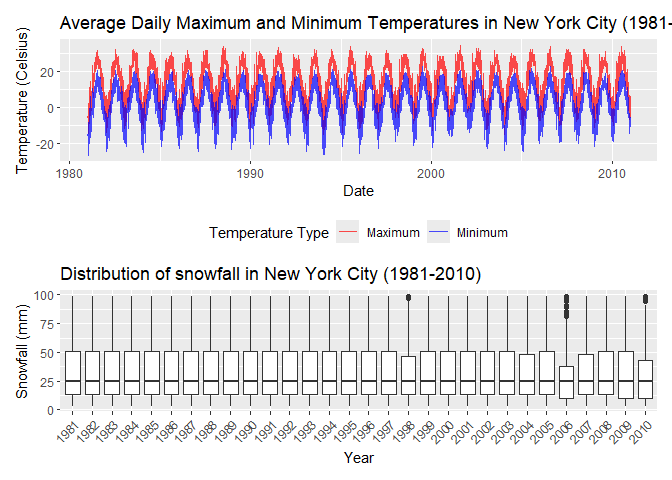
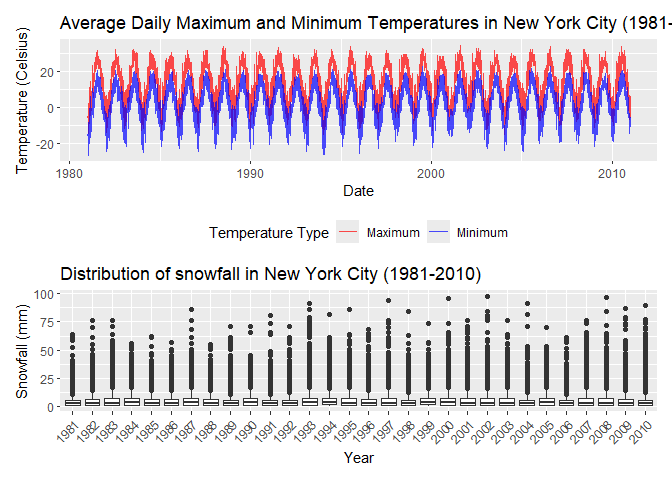
Problem 1: Add notes on data cleaning, change var units
Change two-panel plot type for snowfall

diff --git a/p8105_hw3_ns3782.md b/p8105_hw3_ns3782.md
@@ -63,8 +63,11 @@ ny_noaa_clean <- ny_noaa %>%
     year = lubridate::year(date),
     month = lubridate::month(date),
     day = lubridate::day(date),
-    tmax = as.numeric(tmax) / 10,
-    tmin = as.numeric(tmin) / 10
+    prcp = prcp / 10, 
+    snow = snow / 10, 
+    snwd = snwd / 10,  
+    tmax = as.numeric(tmax) / 10, 
+    tmin = as.numeric(tmin) / 10   
   )
 
 
@@ -77,20 +80,31 @@ ny_noaa_clean %>%
 
     ## # A tibble: 5 × 2
     ##    snow       n
-    ##   <int>   <int>
-    ## 1     0 2008508
-    ## 2    NA  381221
-    ## 3    25   31022
-    ## 4    13   23095
-    ## 5    51   18274
+    ##   <dbl>   <int>
+    ## 1   0   2008508
+    ## 2  NA    381221
+    ## 3   2.5   31022
+    ## 4   1.3   23095
+    ## 5   5.1   18274
+
+## Notes regarding data cleaning
+
+In the process of cleaning the NOAA weather data, I undertook several
+unit conversions to improve interpretability of the weather data.
+Precipitation was changed from tenths of mm to mm, while snowfall and
+snow depth were converted from mm to cm. These are in line with typical
+measures used for these data. Maximum and minimum temperatures were also
+adjusted from tenths of degrees Celsius to whole degrees Celsius. These
+conversions were made to standardise units across the weather variables
+and enable easier subsequent analysis.
 
 ## Most Common Snowfall values
 
-The most common snowfall values for NYC are 0 mm (2008508 occurrences),
+The most common snowfall values for NYC are 0 cm (2008508 occurrences),
 followed by NA (381221 occurrences). 0 is the most common, likely due to
 New York City rarely having snow year round particularly in recent
 years, while NA represents missing data. The next most common values are
-25, 13, 51 mm, which are 1 inch, 0.5 inch, and 2 inches respectively.
+2.5, 1.3, 5.1 cm, which are 1 inch, 0.5 inch, and 2 inches respectively.
 These are indicative of typical light to moderate snowfall events, which
 would be expected of New York City during colder months.
 
@@ -184,8 +198,6 @@ print(p1_nyc_noaa_plot / p2_nyc_noaa_plot)
 # Problem 2
 
 ``` r
-## Import and clean datasets
-
 # Import and clean nhanes_covar csv
 
 nhanes_covar <- read_csv("./data/nhanes_covar.csv", skip = 4) %>% 
@@ -214,3 +226,139 @@ nhanes_accel <- read_csv("./data/nhanes_accel.csv") %>%
     ## 
     ## ℹ Use `spec()` to retrieve the full column specification for this data.
     ## ℹ Specify the column types or set `show_col_types = FALSE` to quiet this message.
+
+``` r
+# Merge datasets
+
+nhanes_merged <- nhanes_covar %>%
+  left_join(nhanes_accel, by = "seqn")
+
+# Exclude participants less than 21 years of age and missing demographic data
+
+nhanes_cleaned <- nhanes_merged %>%
+  filter(age >= 21) %>%
+  drop_na(sex, age, bmi, education)
+
+# Check variable types
+
+str(nhanes_cleaned)
+```
+
+    ## tibble [228 × 1,445] (S3: tbl_df/tbl/data.frame)
+    ##  $ seqn     : num [1:228] 62161 62164 62169 62174 62177 ...
+    ##  $ sex      : num [1:228] 1 2 1 1 1 1 1 1 2 1 ...
+    ##  $ age      : num [1:228] 22 44 21 80 51 80 35 26 30 57 ...
+    ##  $ bmi      : num [1:228] 23.3 23.2 20.1 33.9 20.1 28.5 27.9 22.1 22.4 28 ...
+    ##  $ education: num [1:228] 2 3 2 3 2 2 3 2 3 3 ...
+    ##  $ min1     : num [1:228] 1.11 1.92 5.85 5.42 6.14 ...
+    ##  $ min2     : num [1:228] 3.12 1.67 5.18 3.48 8.06 ...
+    ##  $ min3     : num [1:228] 1.47 2.38 4.76 3.72 9.99 ...
+    ##  $ min4     : num [1:228] 0.938 0.935 6.482 3.808 6.598 ...
+    ##  $ min5     : num [1:228] 1.6 2.59 6.85 6.85 4.57 ...
+    ##  $ min6     : num [1:228] 0.145 5.221 7.242 4.449 2.783 ...
+    ##  $ min7     : num [1:228] 2.1 2.393 6.115 0.561 7.104 ...
+    ##  $ min8     : num [1:228] 0.509 4.902 7.484 1.608 7.253 ...
+    ##  $ min9     : num [1:228] 1.632 1.968 5.471 0.698 10.127 ...
+    ##  $ min10    : num [1:228] 1.2 3.13 6.49 2.72 7.49 ...
+    ##  $ min11    : num [1:228] 0.947 2.771 5.135 4.845 2.718 ...
+    ##  $ min12    : num [1:228] 0.0263 2.4539 3.5134 0.5777 2.3941 ...
+    ##  $ min13    : num [1:228] 0.0552 2.1964 5.4329 1.174 2.2013 ...
+    ##  $ min14    : num [1:228] 0.037 3.079 3.836 2.801 0.85 ...
+    ##  $ min15    : num [1:228] 2.1 7.72 10.22 1.06 3.3 ...
+    ##  $ min16    : num [1:228] 0.543 9.464 6.942 0.029 2.918 ...
+    ##  $ min17    : num [1:228] 0.0915 6.8507 5.9619 0.9488 3.6746 ...
+    ##  $ min18    : num [1:228] 0.97 5.5 8.16 2.68 7.59 ...
+    ##  $ min19    : num [1:228] 0.814 6.11 14.2 4.881 6.248 ...
+    ##  $ min20    : num [1:228] 0.965 3.443 8.693 0.127 5.79 ...
+    ##  $ min21    : num [1:228] 0.0478 3.5679 25.992 2.5968 3.3457 ...
+    ##  $ min22    : num [1:228] 1.86 1.47 9.24 5.02 3.32 ...
+    ##  $ min23    : num [1:228] 1.08 3.1 6.63 1.65 3.01 ...
+    ##  $ min24    : num [1:228] 1.03 1.77 5.1 5.26 4.18 ...
+    ##  $ min25    : num [1:228] 1.23 3.28 4.78 4.72 2.24 ...
+    ##  $ min26    : num [1:228] 2.29 4.53 8.48 5.02 3.79 ...
+    ##  $ min27    : num [1:228] 0.0607 2.5034 7.4079 4.7187 5.7221 ...
+    ##  $ min28    : num [1:228] 0.0533 1.3331 4.4674 6.8562 5.5306 ...
+    ##  $ min29    : num [1:228] 0.103 0.765 5.384 2.806 12.468 ...
+    ##  $ min30    : num [1:228] 0.0907 5.9849 3.7921 4.3602 5.6324 ...
+    ##  $ min31    : num [1:228] 0.309 3.25 5.987 3.357 1.305 ...
+    ##  $ min32    : num [1:228] 0.4 0.745 4.218 1.742 2.748 ...
+    ##  $ min33    : num [1:228] 1.234 0.99 3.491 1.998 0.395 ...
+    ##  $ min34    : num [1:228] 0.033 1.342 3.624 0.98 1.554 ...
+    ##  $ min35    : num [1:228] 3.0613 3.5911 5.953 0.0155 0.6207 ...
+    ##  $ min36    : num [1:228] 1.723 5.063 7.598 0.457 0.247 ...
+    ##  $ min37    : num [1:228] 0.0605 4.642 7.6967 0.6662 1.5099 ...
+    ##  $ min38    : num [1:228] 4.22 5.02 6.34 1.05 1.69 ...
+    ##  $ min39    : num [1:228] 0.805 2.664 20.129 0.02 3.07 ...
+    ##  $ min40    : num [1:228] 0.898 1.363 10.044 0.507 4.033 ...
+    ##  $ min41    : num [1:228] 1.7445 2.4273 4.4081 0.0427 2.1993 ...
+    ##  $ min42    : num [1:228] 1.506 5.165 8.664 0.756 0.69 ...
+    ##  $ min43    : num [1:228] 0.857 6.527 10.432 1.763 1.255 ...
+    ##  $ min44    : num [1:228] 1.03 3.22 6.75 3.29 3.02 ...
+    ##  $ min45    : num [1:228] 0.0495 6.4894 3.8894 0.0893 2.7264 ...
+    ##  $ min46    : num [1:228] 0.137 6.602 3.976 0.732 7.687 ...
+    ##  $ min47    : num [1:228] 0.911 2.535 3.47 1.363 1.78 ...
+    ##  $ min48    : num [1:228] 0.299 3.532 5.168 0.117 1.399 ...
+    ##  $ min49    : num [1:228] 0.364 2.365 5.692 0.759 1.329 ...
+    ##  $ min50    : num [1:228] 0.0455 1.0396 5.194 0.5965 3.2546 ...
+    ##  $ min51    : num [1:228] 0.0307 0.805 3.5296 0.419 2.827 ...
+    ##  $ min52    : num [1:228] 2.216 0.722 6.174 0.147 2.251 ...
+    ##  $ min53    : num [1:228] 0.0577 1.1586 7.8921 1.7413 0.3917 ...
+    ##  $ min54    : num [1:228] 1.216 1.243 7.589 2.286 0.631 ...
+    ##  $ min55    : num [1:228] 0.0765 1.2767 6.3474 4.3313 0.7009 ...
+    ##  $ min56    : num [1:228] 0.0638 1.2551 5.1994 0.1208 1 ...
+    ##  $ min57    : num [1:228] 0.532 0.6137 5.814 0.0183 2.2229 ...
+    ##  $ min58    : num [1:228] 0.0448 0.7019 8.0919 0.698 3.5767 ...
+    ##  $ min59    : num [1:228] 0.094 4.954 6.623 0.084 2.911 ...
+    ##  $ min60    : num [1:228] 0.0273 4.0599 5.9017 0.5968 5.567 ...
+    ##  $ min61    : num [1:228] 0.922 9.251 6.438 0.015 2.355 ...
+    ##  $ min62    : num [1:228] 0.0378 2.8973 6.4271 0.0157 4.0069 ...
+    ##  $ min63    : num [1:228] 0.15 1.871 5.103 0.183 3.47 ...
+    ##  $ min64    : num [1:228] 0.0922 1.1697 5.1356 0.7497 2.7854 ...
+    ##  $ min65    : num [1:228] 0.378 2.625 4.541 0.031 5.24 ...
+    ##  $ min66    : num [1:228] 0.0377 2.476 5.7209 0.0307 4.8513 ...
+    ##  $ min67    : num [1:228] 1.1283 2.3359 4.7034 0.0422 3.4093 ...
+    ##  $ min68    : num [1:228] 0.123 4.983 6.667 0.873 4.443 ...
+    ##  $ min69    : num [1:228] 1.21 3.26 5.61 5.84 7.37 ...
+    ##  $ min70    : num [1:228] 0.0503 4.6211 3.496 6.2575 2.9409 ...
+    ##  $ min71    : num [1:228] 0.0243 3.8281 3.5521 4.0658 3.1709 ...
+    ##  $ min72    : num [1:228] 0.0543 2.0437 6.0114 4.9895 3.302 ...
+    ##  $ min73    : num [1:228] 0.0273 1.0824 4.949 0.4662 10.2747 ...
+    ##  $ min74    : num [1:228] 0.68 6.02 5.52 1.11 1.14 ...
+    ##  $ min75    : num [1:228] 0.0512 5.1124 5.4481 6.5372 2.0353 ...
+    ##  $ min76    : num [1:228] 0.747 7.646 6.168 5.703 2.457 ...
+    ##  $ min77    : num [1:228] 0.743 6.181 5.776 0.41 1.793 ...
+    ##  $ min78    : num [1:228] 1.26 4.77 10.52 1.04 3.82 ...
+    ##  $ min79    : num [1:228] 0.854 4.373 7.089 0.359 3.331 ...
+    ##  $ min80    : num [1:228] 1.166 4.56 7.959 0.931 4.177 ...
+    ##  $ min81    : num [1:228] 0.206 1.921 7.116 0.237 5.08 ...
+    ##  $ min82    : num [1:228] 0.824 2.648 4.855 1.529 2.02 ...
+    ##  $ min83    : num [1:228] 0.115 2.168 7.518 5.599 5.898 ...
+    ##  $ min84    : num [1:228] 1.06 1.32 9.21 3.2 3.3 ...
+    ##  $ min85    : num [1:228] 3.76 2.75 5.03 3.3 1.23 ...
+    ##  $ min86    : num [1:228] 6.86 1.85 4.4 2.96 6.24 ...
+    ##  $ min87    : num [1:228] 5.949 1.477 9.568 0.033 0.89 ...
+    ##  $ min88    : num [1:228] 1.593 0.715 9.112 0.394 0.815 ...
+    ##  $ min89    : num [1:228] 0.353 1.552 9.95 1.137 0.102 ...
+    ##  $ min90    : num [1:228] 0.768 1.583 9.702 0.212 1.515 ...
+    ##  $ min91    : num [1:228] 0.275 1.4 4.508 0.527 4.04 ...
+    ##  $ min92    : num [1:228] 0.0292 3.4963 7.5771 2.1612 2.8986 ...
+    ##  $ min93    : num [1:228] 1.992 0.976 12.136 3.366 1.785 ...
+    ##  $ min94    : num [1:228] 0.0522 3.4009 13.8067 0.1887 0.539 ...
+    ##   [list output truncated]
+
+``` r
+# Code variable classes
+
+nhanes_cleaned <- nhanes_cleaned %>%
+  mutate(
+    sex = factor(sex, 
+                 levels = c(1, 2), 
+                 labels = c("male", "female")),
+    education = factor(education, 
+                       levels = c(1, 2, 3),
+                       labels = c("Less than high school", 
+                                  "High school equivalent", 
+                                  "More than high school"),
+                       ordered = TRUE)
+  )
+```
